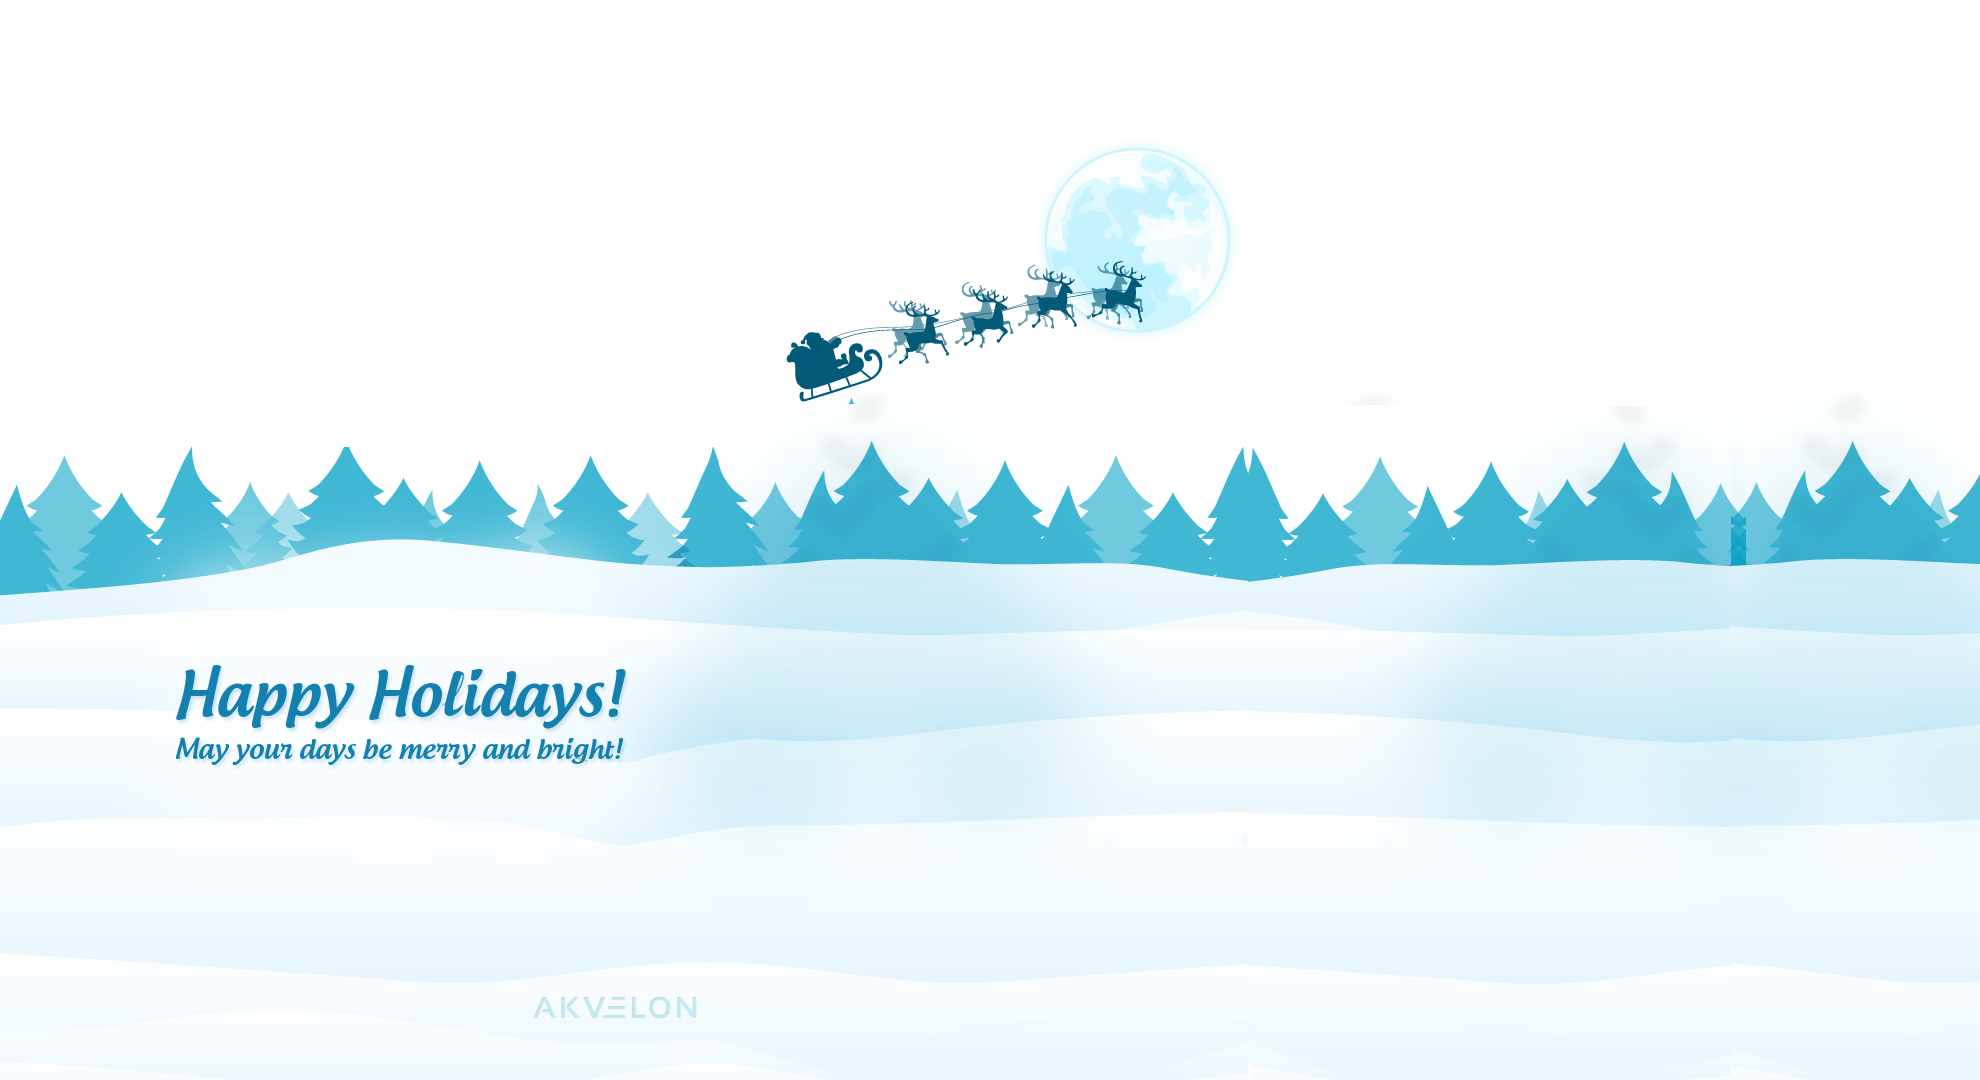
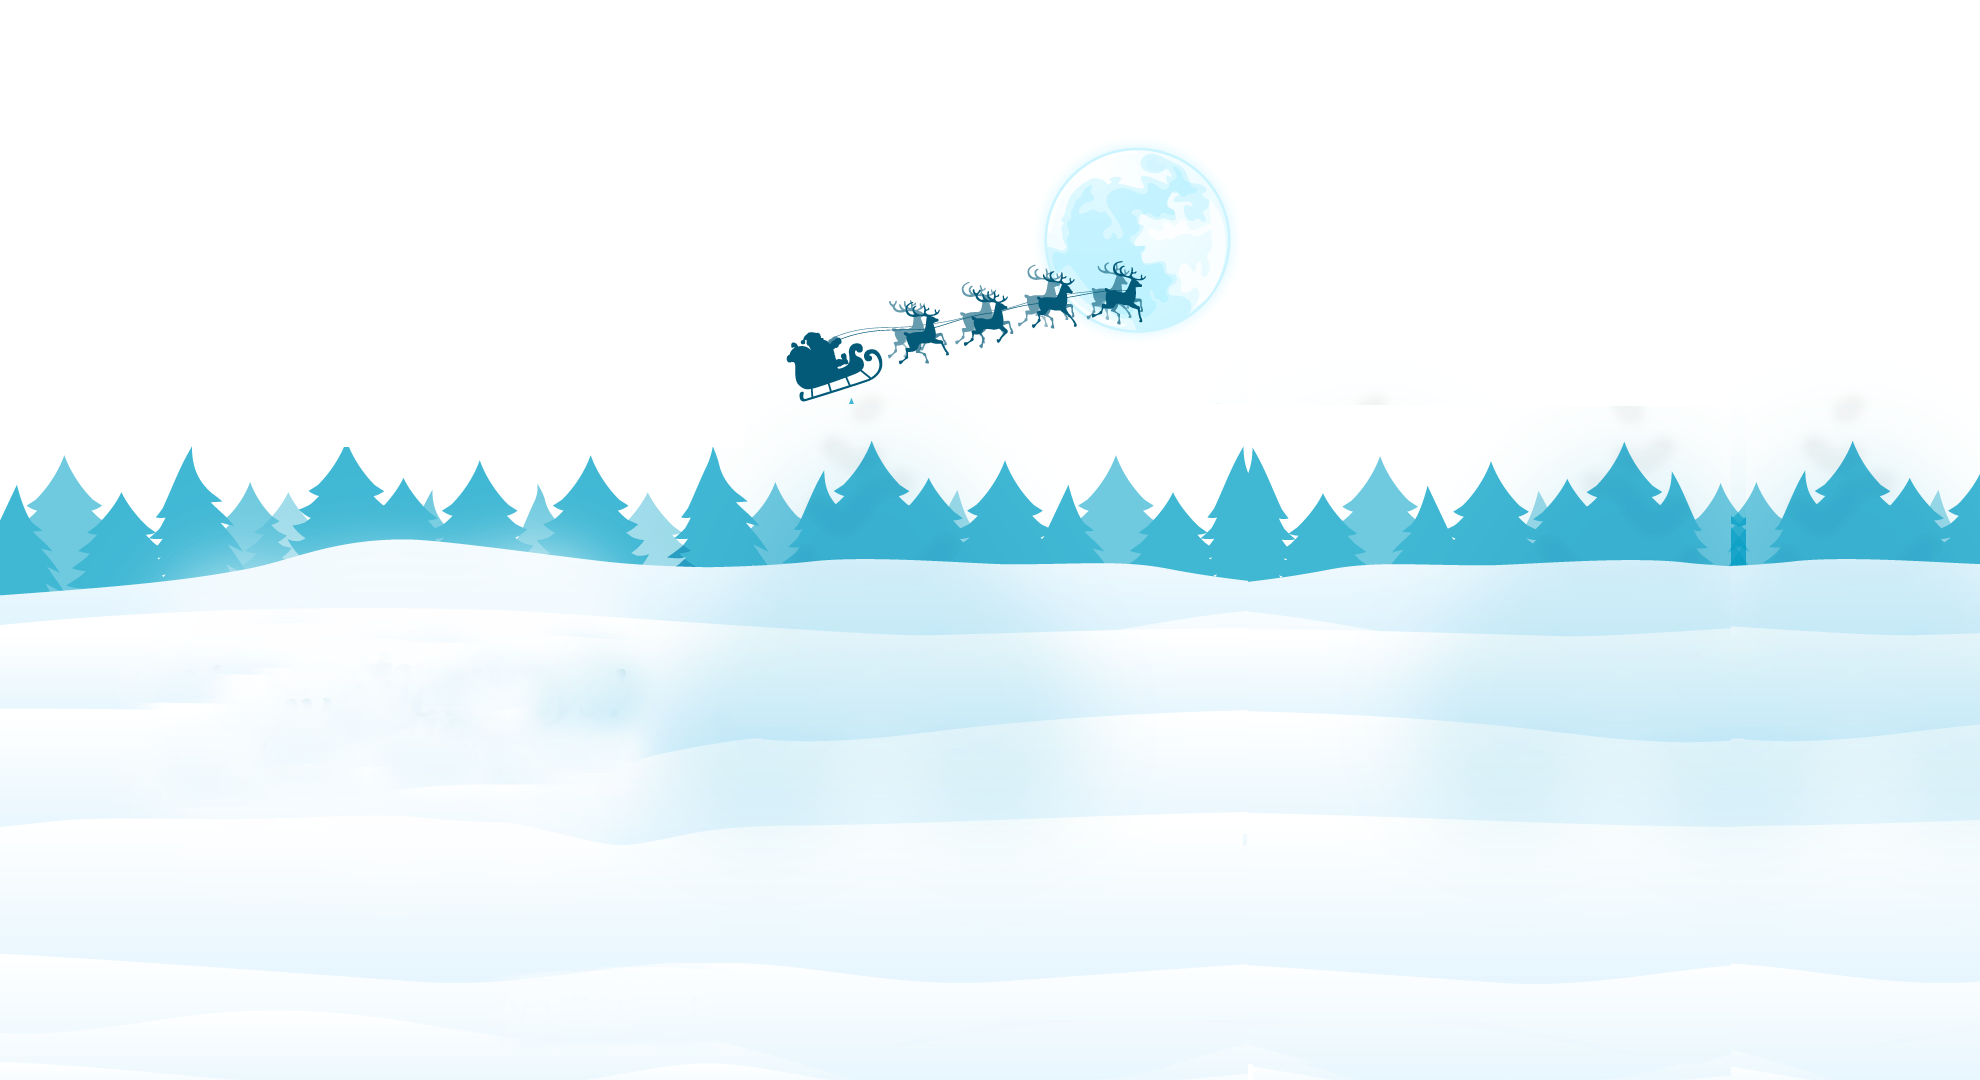
added text as separate images

Changed region(s): [[0.0924, 0.6111, 0.3389, 0.7028], [0.2773, 0.9167, 0.3697, 0.9472]]

diff --git a/www/Default_files/default.css b/www/Default_files/default.css
@@ -219,7 +219,31 @@ canvas.clearedSnowCanvas
     overflow: hidden;
 }
 
-/*@media screen and (orientation: portrait) and (max-device-width: 768px) {*/
+#textContainer{
+    text-align: center;
+    width: 100%;
+    height: 100%;
+    position: absolute;
+}
+
+#gratters{
+    position: absolute;
+    top: 0;
+    bottom: 0;
+    margin: auto;
+    left: 0px;
+    right: 0;
+    z-index: 100;
+}
+
+#akvelon{
+    position: relative;
+    top: 95%;
+    padding-bottom: 20px;
+    z-index: 100;
+}
+
+/*@media screen and (orientation: portrait) {*/
 
     /*img#snowman{*/
         /*width: auto;*/
@@ -240,7 +264,7 @@ canvas.clearedSnowCanvas
     /*}*/
 /*}*/
 
-/*@media screen and (orientation: landscape) and (max-device-width: 768px) {*/
+@media screen and (orientation: landscape) and (max-device-width: 768px){
 
     /*@-ms-viewport {*/
         /*user-zoom: fixed;*/
@@ -255,7 +279,14 @@ canvas.clearedSnowCanvas
         /*right: 5%;*/
         /*bottom: 3%;*/
     /*}*/
-/*}*/
+    #gratters{
+        left: 10px;
+        margin: auto 0;
+    }
+    #akvelon{
+        top: 90%;
+    }
+}
 
 @media screen and (min-device-width: 1280px) {
     /*img#snowman{*/

diff --git a/www/index.html b/www/index.html
@@ -17,6 +17,11 @@
 <body>
 <div id="sceneContainer" class="">
 
+<div id="textContainer">
+    <img id="akvelon" src="images/akvelon.png"/>
+    <img id="gratters" src="images/gratters.png"/>
+</div>
+
     <canvas height="1327" width="2320" id="backgroundGradient"></canvas>
 
 
